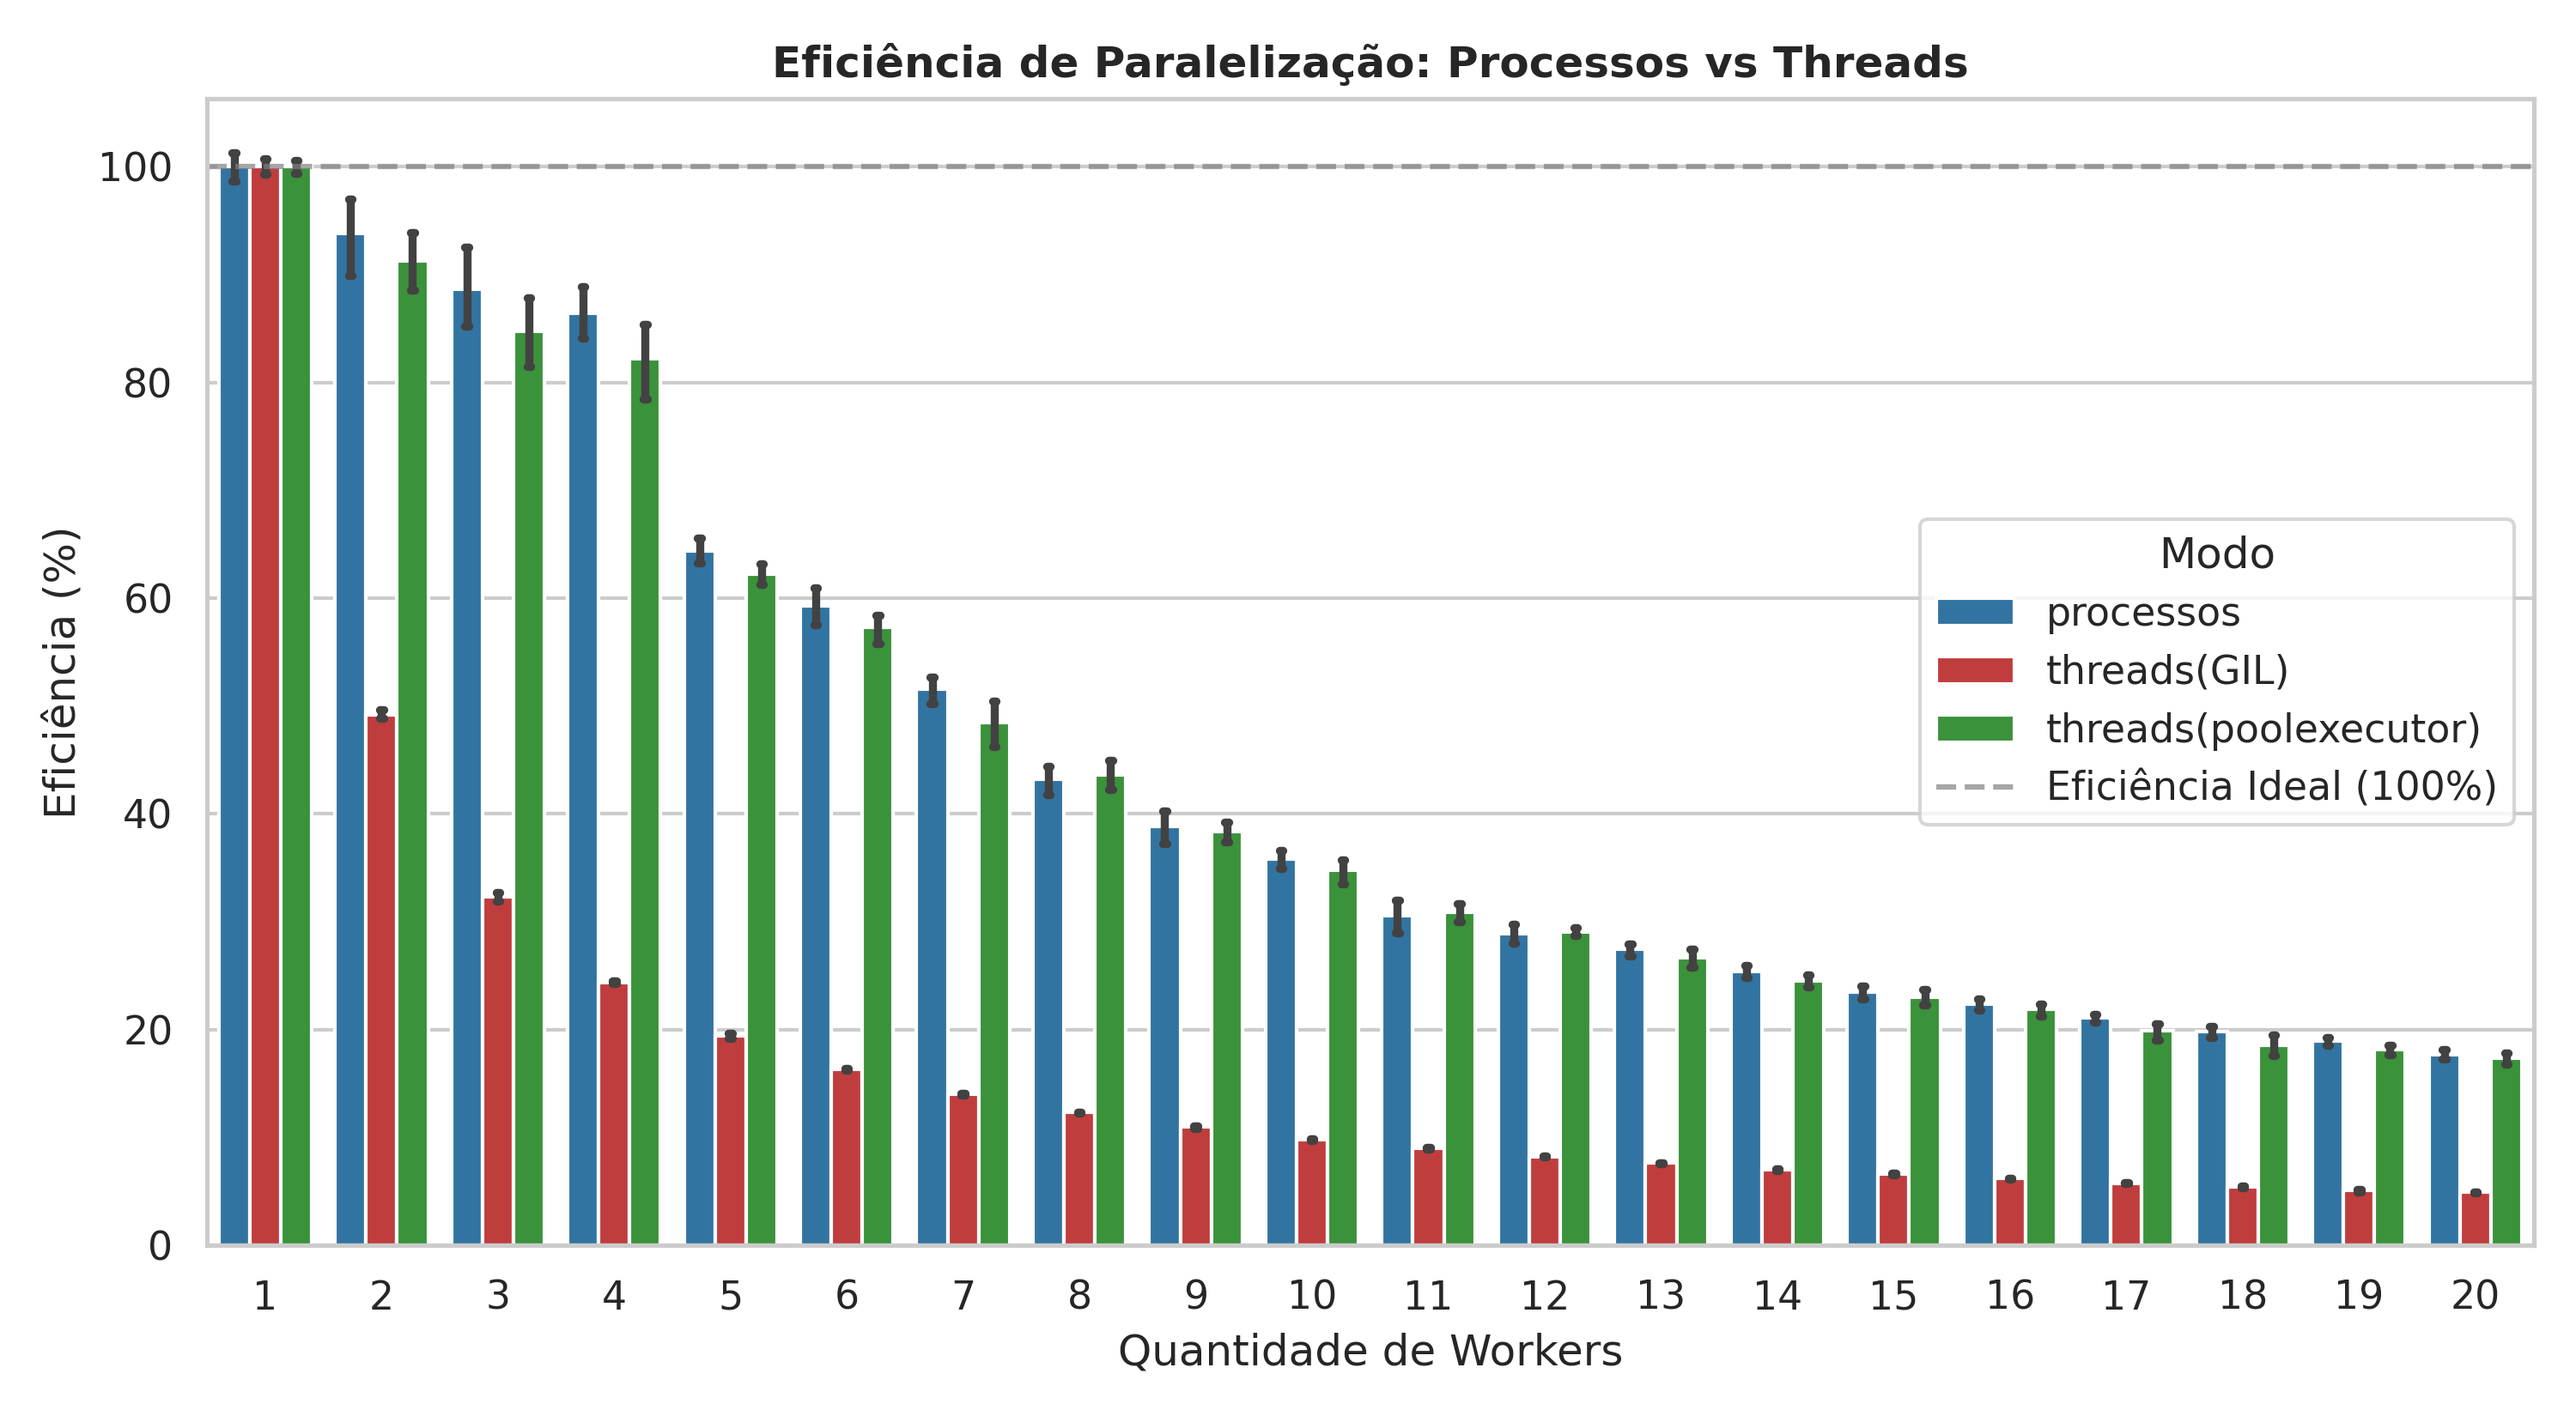
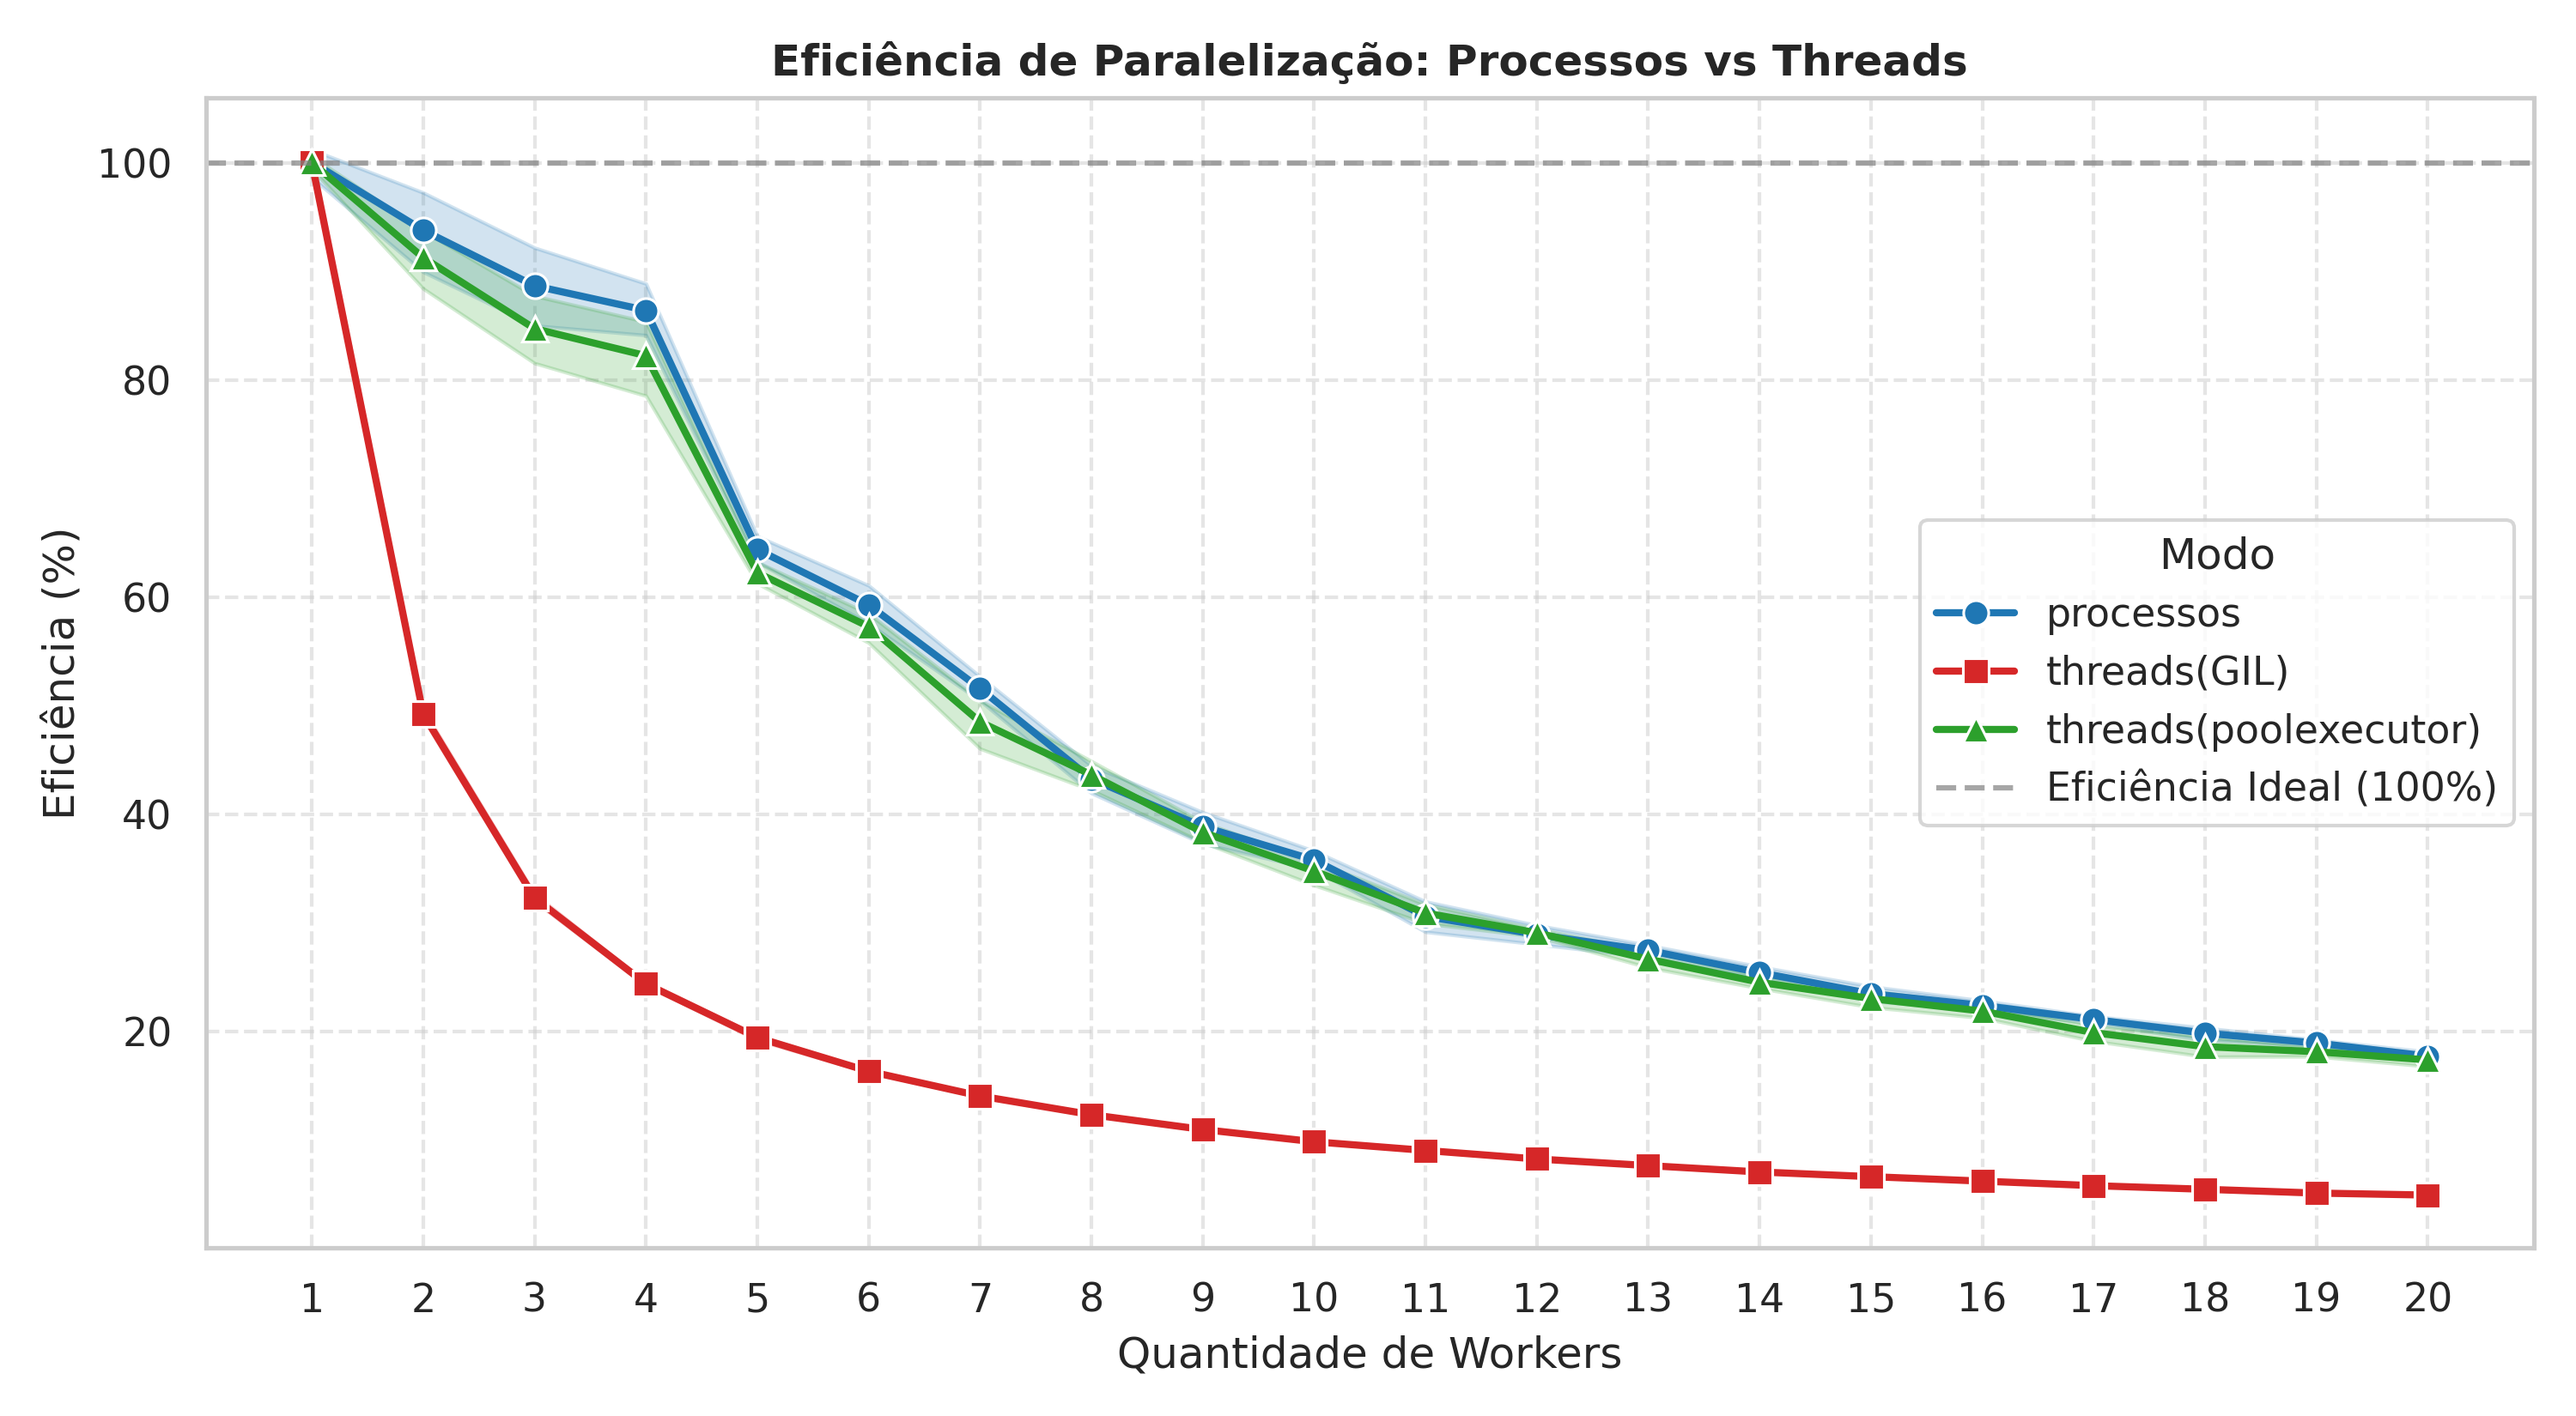
updates

diff --git a/1paralelo.py b/1paralelo.py
@@ -28,10 +28,7 @@ def load_config(config_path):
 
 
 def heavy_task(n):
-    """
-    Tarefa CPU-bound que simula um processamento pesado sem usar sleep().
-    Recebe o parâmetro de complexidade e executa operações matemáticas.
-    """
+    """Tarefa CPU-bound que simula processamento pesado sem usar sleep()."""
     total = 0.0
     for i in range(1, n + 1):
         total += math.sqrt(i) * math.sin(i)
@@ -44,43 +41,75 @@ def run_chunk(args):
     return heavy_task(sub_n)
 
 
-def execute_benchmark(mode, num_workers, complexity):
-    """
-    Divide a carga total entre os workers e executa usando Processos ou Threads.
-    """
-    chunk_size = complexity // num_workers
-    tasks = [(chunk_size,) for _ in range(num_workers)]
+# ==============================================================================
+# STRATEGIES DE EXECUÇÃO
+# ==============================================================================
 
+
+def run_processos(tasks, num_workers):
+    """Paralelismo via múltiplos processos (multiprocessing.Pool)."""
+    with multiprocessing.Pool(processes=num_workers) as pool:
+        pool.map(run_chunk, tasks)
+
+
+def run_threads_gil(tasks, num_workers):
+    """Paralelismo via threads sujeitas ao GIL (ThreadPoolExecutor)."""
+    with concurrent.futures.ThreadPoolExecutor(
+        max_workers=num_workers
+    ) as executor:
+        list(executor.map(run_chunk, tasks))
+
+
+def run_threads_poolexecutor(tasks, num_workers):
+    """Paralelismo via múltiplos processos (ProcessPoolExecutor)."""
+    with concurrent.futures.ProcessPoolExecutor(
+        max_workers=num_workers
+    ) as executor:
+        list(executor.map(run_chunk, tasks))
+
+
+# Mapeamento dos modos de execução para suas respectivas funções
+EXECUTION_STRATEGIES = {
+    "processos": run_processos,
+    "threads(GIL)": run_threads_gil,
+    "threads(poolexecutor)": run_threads_poolexecutor,
+}
+
+
+# ==============================================================================
+# FUNÇÃO PRINCIPAL DE EXECUÇÃO
+# ==============================================================================
+
+
+def execute_benchmark(mode, num_workers, complexity):
+    """Divide a carga total entre os workers e despacha para a função correspondente."""
     start_time = time.perf_counter()
 
     if num_workers == 1:
-        # Execução Sequencial Direta em 1 worker
+        # Execução sequencial direta em 1 worker
         heavy_task(complexity)
-    elif mode == "processos":
-        # Paralelismo via Processos com multiprocessing.Pool
-        with multiprocessing.Pool(processes=num_workers) as pool:
-            pool.map(run_chunk, tasks)
-    elif mode == "threads(GIL)":
-        # Paralelismo via Threads com ThreadPoolExecutor
-        with concurrent.futures.ThreadPoolExecutor(
-            max_workers=num_workers
-        ) as executor:
-            list(executor.map(run_chunk, tasks))
-    elif mode == "threads(poolexecutor)":
-        # Paralelismo via Processos usando a interface ProcessPoolExecutor de concurrent.futures
-        with concurrent.futures.ProcessPoolExecutor(
-            max_workers=num_workers
-        ) as executor:
-            list(executor.map(run_chunk, tasks))
+    else:
+        chunk_size = complexity // num_workers
+        tasks = [(chunk_size,) for _ in range(num_workers)]
+
+        # Seleciona e executa a função do modo correspondente
+        strategy = EXECUTION_STRATEGIES.get(mode)
+        if not strategy:
+            raise ValueError(f"Modo de execução desconhecido: '{mode}'")
+
+        strategy(tasks, num_workers)
 
     end_time = time.perf_counter()
     return end_time - start_time
 
 
+# ==============================================================================
+# PONTO DE ENTRADA DO SCRIPT
+# ==============================================================================
+
 if __name__ == "__main__":
     multiprocessing.freeze_support()
 
-    # Carrega os parâmetros do arquivo params.cfg
     params = load_config("0params.cfg")
 
     COMPLEXITY = params["COMPLEXITY"]
@@ -88,17 +117,15 @@ if __name__ == "__main__":
     MAX_WORKERS = params["MAX_WORKERS"]
     LOG_FILENAME = params["LOG_FILENAME"]
 
-    # Inclusão do novo modo na lista de execuções
-    MODES = ["processos", "threads(GIL)", "threads(poolexecutor)"]
+    MODES = list(EXECUTION_STRATEGIES.keys())
 
     print("=" * 65)
     print("INICIANDO BENCHMARK COMPARATIVO DE PARALELISMO")
-    print(f"Parâmetros lidos de: params.cfg")
+    print("Parâmetros lidos de: 0params.cfg")
     print(f"Complexidade: {COMPLEXITY:_} iterações | Repetições: {REPETITIONS}")
     print(f"Workers avaliados: 1 até {MAX_WORKERS}")
     print("=" * 65)
 
-    # Inicializa o arquivo de Log CSV com o campo 'modo'
     with open(LOG_FILENAME, mode="w", newline="", encoding="utf-8") as csv_file:
         writer = csv.writer(csv_file)
         writer.writerow(
@@ -116,7 +143,6 @@ if __name__ == "__main__":
                 for rep in range(1, REPETITIONS + 1):
                     elapsed_time = execute_benchmark(mode, num_workers, COMPLEXITY)
 
-                    # Registra no CSV
                     writer.writerow(
                         [mode, rep, num_workers, f"{elapsed_time:.4f}"]
                     )

diff --git a/2analisa.py b/2analisa.py
@@ -217,18 +217,24 @@ def analisar_e_gerar_graficos(caminho_csv, num_cores=None):
     plt.savefig(os.path.join(OUTPUT_DIR, "2_comparacao_speedup.png"), dpi=300)
     plt.close()
 
-    # --- Gráfico 3: Eficiência Agrupada ---
+# --- Gráfico 3: Eficiência Agrupada em Linhas ---
     fig, ax = plt.subplots(figsize=(10, 5.5))
-    sns.barplot(
+    
+    sns.lineplot(
         data=df,
         x="quantidade_workers",
         y="eficiencia_%",
         hue="modo",
-        ax=ax,
+        style="modo",
+        markers=markers_modo,
+        dashes=False,
         palette=cores_modo,
         errorbar=("ci", 95),
-        capsize=0.1,
+        linewidth=2,
+        markersize=7,
+        ax=ax,
     )
+    
     ax.axhline(
         100,
         linestyle="--",
@@ -236,18 +242,23 @@ def analisar_e_gerar_graficos(caminho_csv, num_cores=None):
         alpha=0.7,
         label="Eficiência Ideal (100%)",
     )
+    
     ax.set_title(
         "Eficiência de Paralelização: Processos vs Threads",
         fontweight="bold",
     )
     ax.set_xlabel("Quantidade de Workers")
     ax.set_ylabel("Eficiência (%)")
+    ax.set_xticks(sorted(df["quantidade_workers"].unique()))
+    ax.grid(True, linestyle="--", alpha=0.5)
     ax.legend(title="Modo")
+    
+    plt.tight_layout()
     plt.savefig(
         os.path.join(OUTPUT_DIR, "3_comparacao_eficiencia.png"), dpi=300
     )
     plt.close()
-
+    
     # --- Gráfico 4: Boxplot do Comportamento das Amostras (Dispersão) ---
     fig, ax = plt.subplots(figsize=(10, 5.5))
     sns.boxplot(
